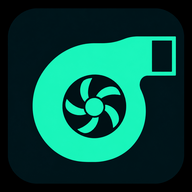
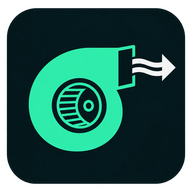
Korjaa PWA-kuvake vahvistettuun puhallinkuvaan

diff --git a/service-worker.js b/service-worker.js
@@ -1,4 +1,4 @@
-const CACHE_NAME="iv-mittaus-v12";
+const CACHE_NAME="iv-mittaus-v13";
 const APP_SHELL=["./","./manifest.webmanifest","./apple-touch-icon.png","./icon-192.png","./icon-512.png"];
 self.addEventListener("install",event=>{event.waitUntil(caches.open(CACHE_NAME).then(cache=>cache.addAll(APP_SHELL)).then(()=>self.skipWaiting()))});
 self.addEventListener("activate",event=>{event.waitUntil(caches.keys().then(keys=>Promise.all(keys.filter(key=>key!==CACHE_NAME).map(key=>caches.delete(key)))).then(()=>self.clients.claim()))});
